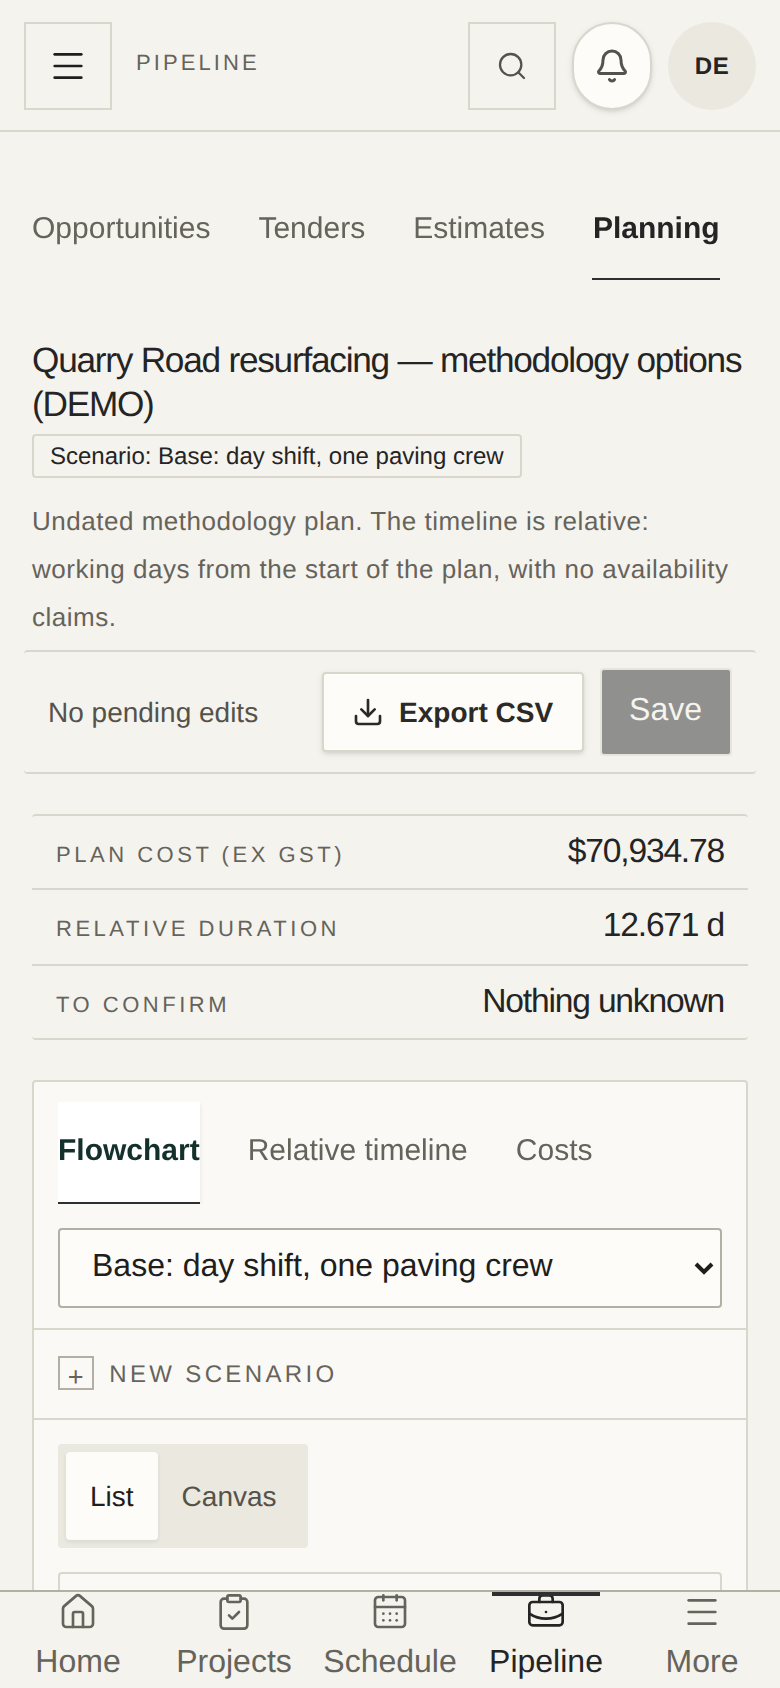
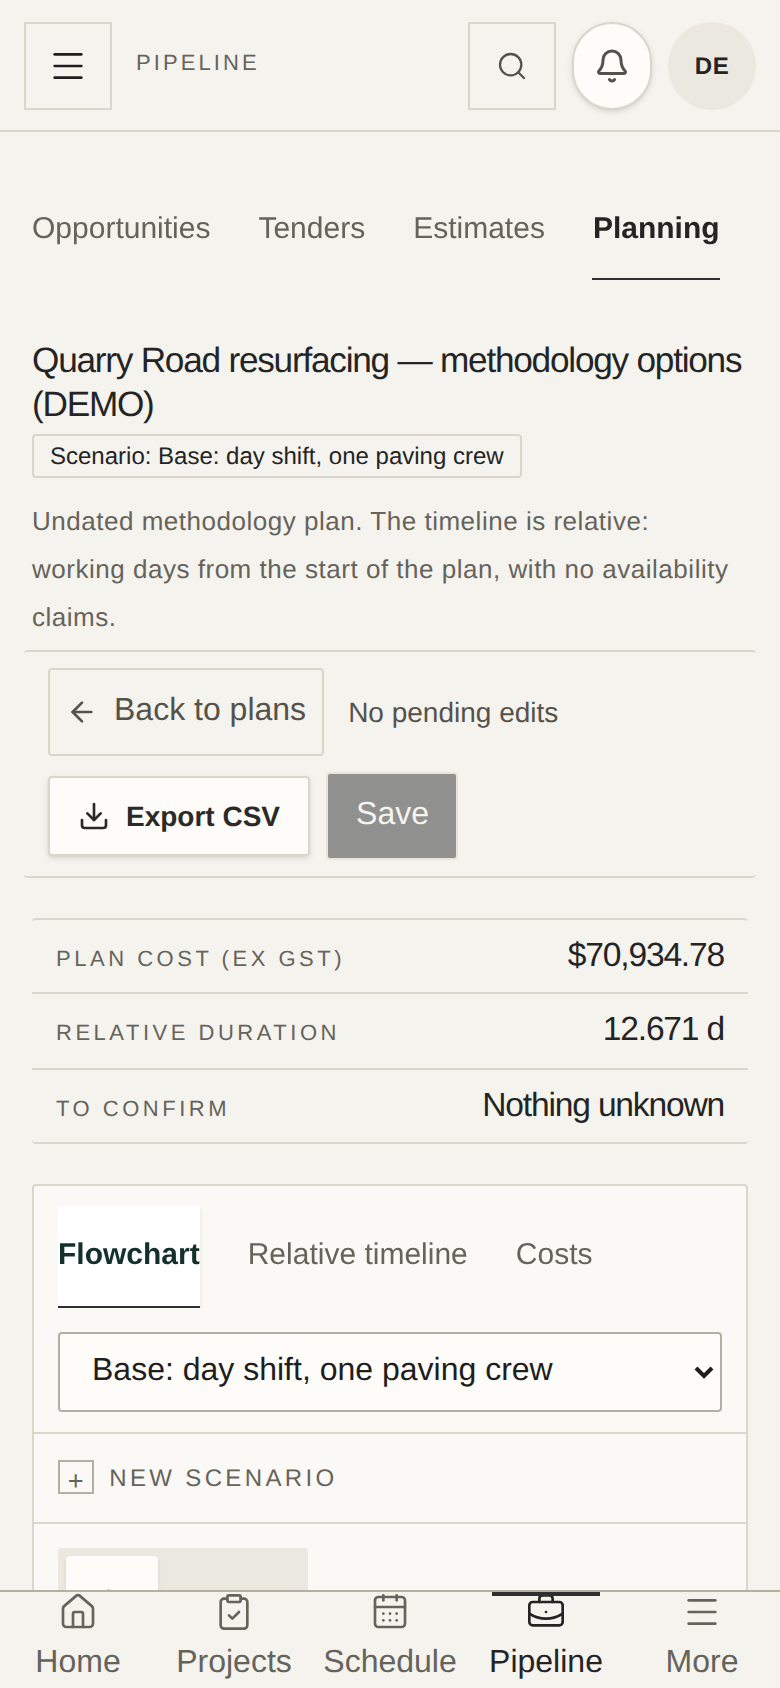
Planning: keep a guarded 'Back to plans' button on phones
The compact header hides the breadcrumb below 640px, which removed the
only normal guarded return path. The button calls the existing leave()
handler. Feedback journey section G covers 390px: clean return, cancel
and confirm of the unsaved-changes prompt.

Claude-Session: https://claude.ai/code/session_016qGf8yC18GfRqLTggCdR9L

diff --git a/components/v1/planning.tsx b/components/v1/planning.tsx
@@ -2,7 +2,7 @@
 // Planning v0.1 (docs/PLANNING-V0-1-DECISION.md): an undated methodology canvas with live costing, saved scenarios and a
 // relative timeline. One calculation (lib/v1/planning.ts) drives the preview here and the authoritative server result.
 import {useEffect,useMemo,useRef,useState,type PointerEvent as ReactPointerEvent} from 'react';
-import {Download,GitBranch,Link2,Milestone,Plus,Trash2,X,ChevronRight} from 'lucide-react';
+import {Download,GitBranch,Link2,Milestone,Plus,Trash2,X,ChevronRight,ArrowLeft} from 'lucide-react';
 import {api,useApi,useAction,useSession,PageHeader,Section,ErrorState,EmptyState,Btn,Pill,Tabs,Field,field as fieldClass,money} from './kit';
 import {FIELDS,KNOWN_UNITS,blankActivity,calculatePlan,findCycle,fits,newId,validatePlan,type FieldSpec,type PlanActivity,type PlanDocument,type PlanResult,type Positions,type Requirement} from '@/lib/v1/planning';
 
@@ -143,7 +143,8 @@ function Editor({scenarioId,onBack}:{scenarioId:string;onBack:()=>void}){
   <PageHeader compact crumbs={[{label:'Planning',onClick:leave},{label:data.plan.name}]} title={data.plan.name} subtitle="Undated methodology plan. The timeline is relative: working days from the start of the plan, with no availability claims."
    badges={<><Pill tone="info">Scenario: {data.scenario.name}</Pill>{dirty&&<Pill tone="warning">Unsaved changes</Pill>}</>}/>
   <div data-testid="plan-actionbar" className="plan-actionbar sticky top-0 z-30 -mx-1 flex flex-wrap items-center justify-between gap-2 rounded-xl px-3 py-2">
-   <p className="text-sm text-slate-600" aria-live="off">{!editable?'View only':dirty?<span className="font-medium text-amber-800">Edits not saved yet</span>:'No pending edits'}</p>
+   <div className="flex min-w-0 flex-wrap items-center gap-x-3 gap-y-1"><Btn variant="ghost" className="sm:hidden !min-h-11 !px-2" data-testid="plan-back" onClick={leave}><ArrowLeft aria-hidden className="size-4"/>Back to plans</Btn>
+   <p className="text-sm text-slate-600" aria-live="off">{!editable?'View only':dirty?<span className="font-medium text-amber-800">Edits not saved yet</span>:'No pending edits'}</p></div>
    <div className="flex flex-wrap items-center gap-2">
     {editable&&dirty&&<Btn variant="ghost" onClick={discard}>Discard changes</Btn>}
     <a className="inline-flex min-h-10 items-center gap-2 rounded-lg border border-slate-300 bg-white px-3.5 py-2 text-sm font-semibold text-slate-800 shadow-sm hover:bg-slate-50" href={`/api/planning?scenarioId=${data.scenario.id}&export=csv`}><Download aria-hidden className="size-4"/>Export CSV</a>
